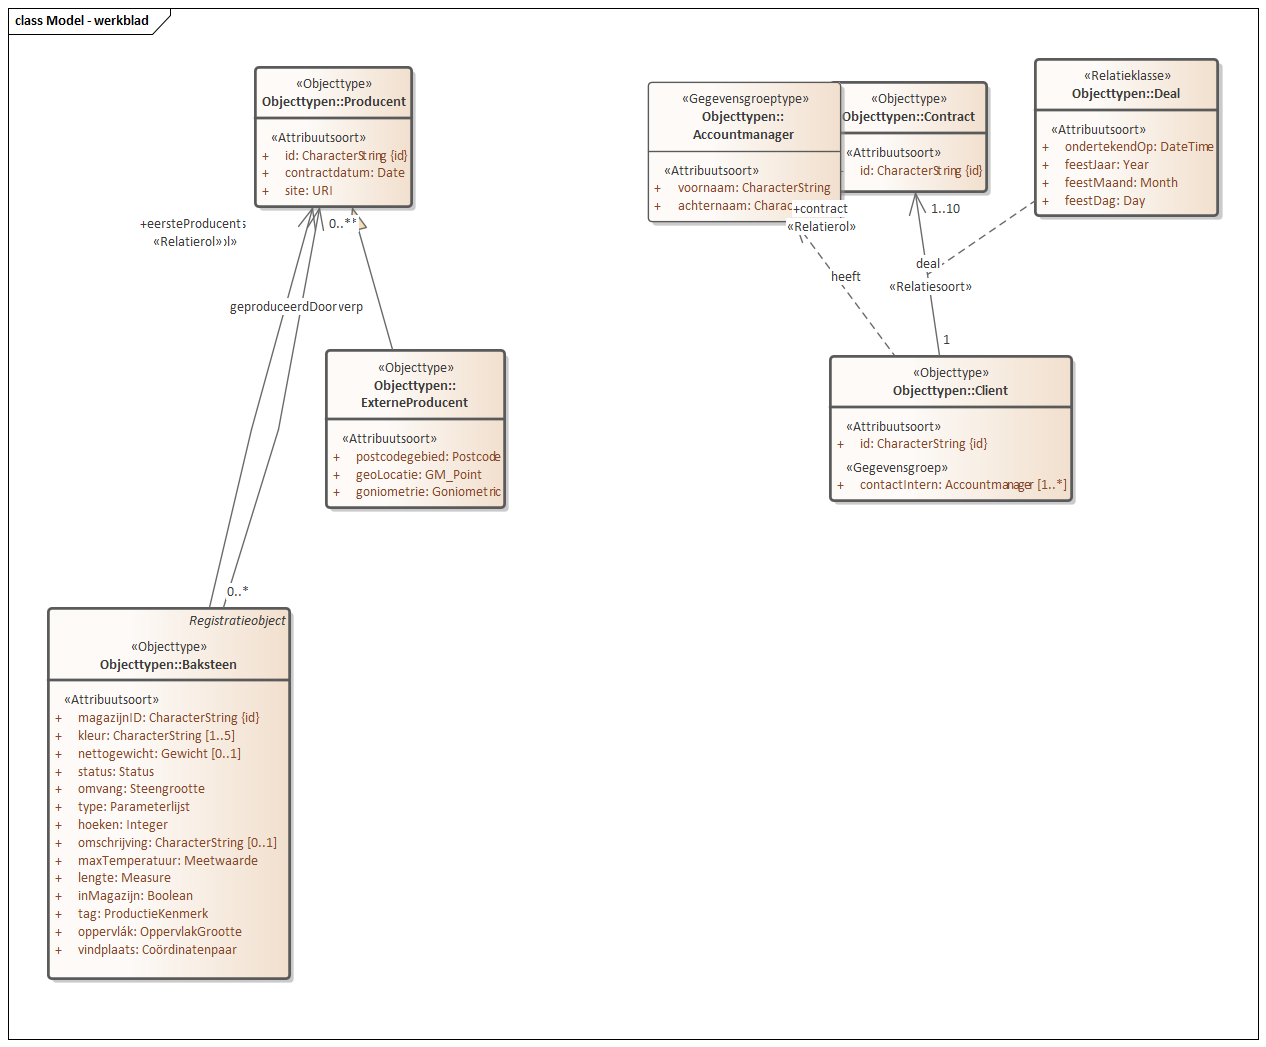
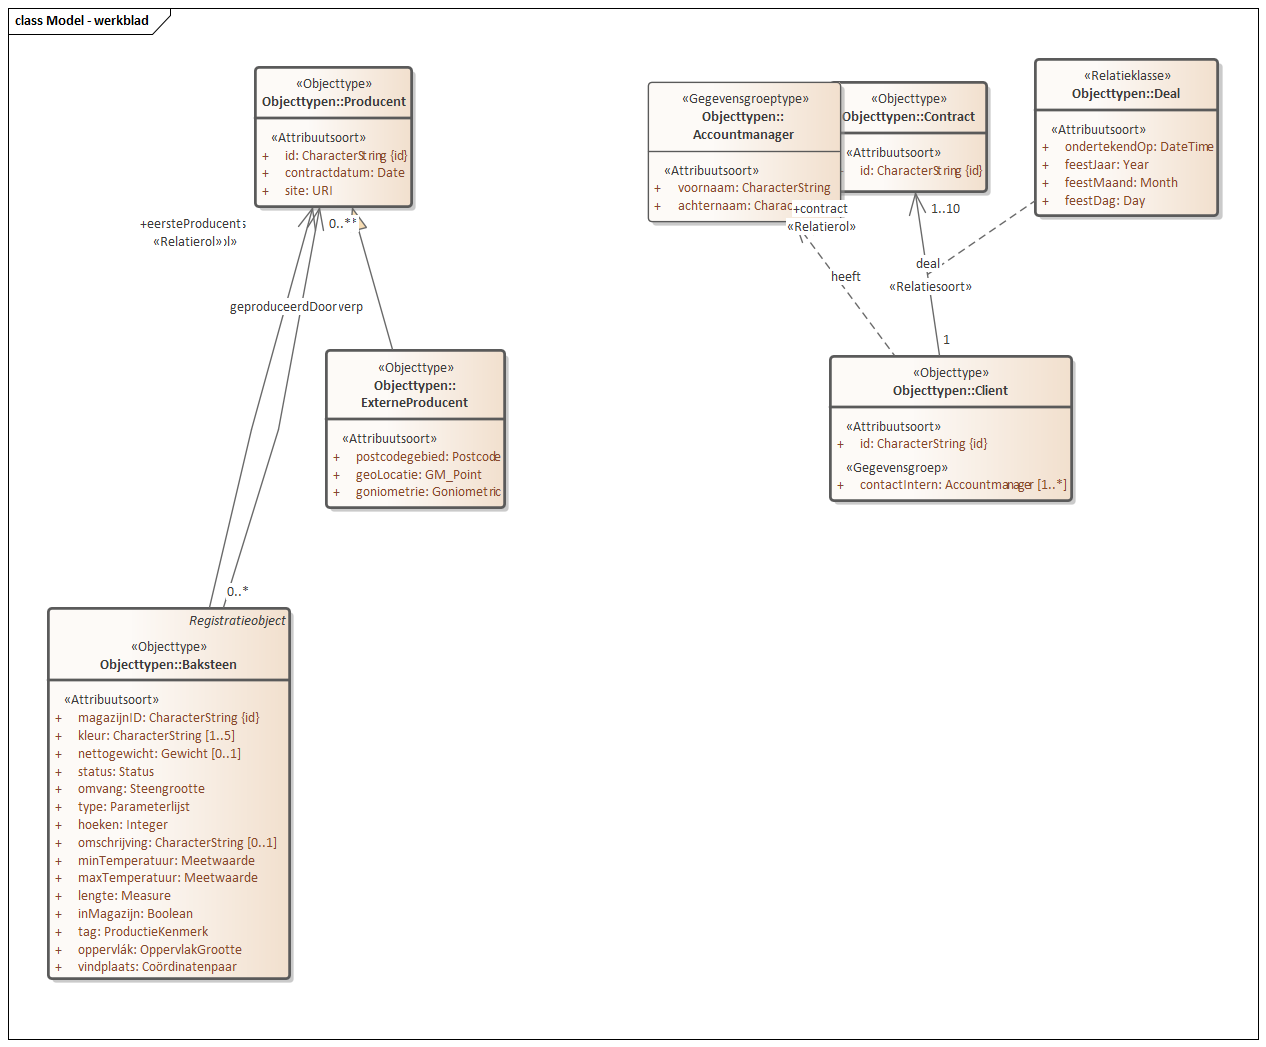
Conceptualmodel-SampleBaseSAMPLE-1.0.0-2-20130318-20200602-133359

Changed region(s): [[0.0616, 0.7947, 0.2156, 0.9475]]

diff --git a/data/SAMPLE-cat.msword.html b/data/SAMPLE-cat.msword.html
@@ -13,7 +13,7 @@
    <body>
       <p>Conceptual model/SampleBase (SAMPLE)/20130318</p>
       <p>Imvertor: 1.59.5</p>
-      <p>Model release: Conceptualmodel-SampleBaseSAMPLE-1.0.0-2-20130318-20200602-132714</p>
+      <p>Model release: Conceptualmodel-SampleBaseSAMPLE-1.0.0-2-20130318-20200602-133359</p>
       <hr>
       <section>
          <h1>Artikel 1 Definitie van registratieobject, entiteiten en attributen</h1>
@@ -54,17 +54,17 @@
             <h2>Het domeinmodel</h2>
             <section id="">
                <div class="imageinfo overview"><img src="Images/EAID_08513AA0_8A50_46c1_AD86_9B80D9A6AAE1.png" usemap="#imagemap-EAID_08513AA0_8A50_46c1_AD86_9B80D9A6AAE1" alt="Diagram Overzicht van alle constructies in dit conceptuele model."><map name="imagemap-EAID_08513AA0_8A50_46c1_AD86_9B80D9A6AAE1">
-                     <area shape="rect" alt="ProductieKenmerk" coords="616,876,753,986" href="#graph_EAID_4D78F0AD_88ED_44ef_9A76_163426CD74D1">
-                     <area shape="rect" alt="Parameterlijst" coords="839,826,1035,1019" href="#graph_EAID_44AEBC38_4744_431f_B31C_D809E3AA7D52">
-                     <area shape="rect" alt="Registratieobject" coords="48,167,322,289" href="#graph_EAID_9E9289AB_19E6_48af_87FD_8BC9E0875C28">
-                     <area shape="rect" alt="Steengrootte" coords="340,876,518,1019" href="#graph_EAID_65363897_E229_41fd_BE6F_E6B1BACAD458">
-                     <area shape="rect" alt="Accountmanager" coords="1140,668,1346,808" href="#graph_EAID_29D6B892_B943_494c_94C7_A13DB031E998">
-                     <area shape="rect" alt="Status" coords="77,878,262,1017" href="#graph_EAID_E86D21EE_58FD_4975_9CCB_AFF2434704A8">
-                     <area shape="rect" alt="ExterneProducent" coords="552,627,737,784" href="#graph_EAID_E2C93214_90E2_4151_B719_7BB8CDF8679F">
-                     <area shape="rect" alt="Baksteen" coords="86,386,315,721" href="#graph_EAID_CF7C4448_E50C_4c7a_B1D0_C4FCB2EB1814">
-                     <area shape="rect" alt="Producent" coords="538,367,723,565" href="#graph_EAID_04EED45C_4D30_41b9_83EE_65237E1F8E27">
-                     <area shape="rect" alt="Contract" coords="1402,541,1587,663" href="#graph_EAID_77987690_1141_457d_A33B_E1C7AA1EA812">
-                     <area shape="rect" alt="Client" coords="839,545,1082,709" href="#graph_EAID_DF955A82_3E49_4c9d_9C0C_74738600FE1B"></map><p><b>Domeinmodel</b> — Overzicht van alle constructies in dit conceptuele model.
+                     <area shape="rect" alt="ProductieKenmerk" coords="616,867,753,976" href="#graph_EAID_4D78F0AD_88ED_44ef_9A76_163426CD74D1">
+                     <area shape="rect" alt="Parameterlijst" coords="839,816,1035,1009" href="#graph_EAID_44AEBC38_4744_431f_B31C_D809E3AA7D52">
+                     <area shape="rect" alt="Registratieobject" coords="48,157,322,279" href="#graph_EAID_9E9289AB_19E6_48af_87FD_8BC9E0875C28">
+                     <area shape="rect" alt="Steengrootte" coords="340,867,518,1009" href="#graph_EAID_65363897_E229_41fd_BE6F_E6B1BACAD458">
+                     <area shape="rect" alt="Accountmanager" coords="1140,659,1346,798" href="#graph_EAID_29D6B892_B943_494c_94C7_A13DB031E998">
+                     <area shape="rect" alt="Status" coords="77,868,262,1008" href="#graph_EAID_E86D21EE_58FD_4975_9CCB_AFF2434704A8">
+                     <area shape="rect" alt="ExterneProducent" coords="552,617,737,775" href="#graph_EAID_E2C93214_90E2_4151_B719_7BB8CDF8679F">
+                     <area shape="rect" alt="Baksteen" coords="86,377,315,730" href="#graph_EAID_CF7C4448_E50C_4c7a_B1D0_C4FCB2EB1814">
+                     <area shape="rect" alt="Producent" coords="538,357,723,556" href="#graph_EAID_04EED45C_4D30_41b9_83EE_65237E1F8E27">
+                     <area shape="rect" alt="Contract" coords="1402,531,1587,653" href="#graph_EAID_77987690_1141_457d_A33B_E1C7AA1EA812">
+                     <area shape="rect" alt="Client" coords="839,535,1082,700" href="#graph_EAID_DF955A82_3E49_4c9d_9C0C_74738600FE1B"></map><p><b>Domeinmodel</b> — Overzicht van alle constructies in dit conceptuele model.
                   </p>
                </div>
             </section>
@@ -75,7 +75,7 @@
                   <h3>   Baksteen</h3>
                   <div class="imageinfo "><img src="Images/EAID_EB759E5B_3FAA_4064_A73E_704926072F89.png" usemap="#imagemap-EAID_EB759E5B_3FAA_4064_A73E_704926072F89" alt="Diagram "><map name="imagemap-EAID_EB759E5B_3FAA_4064_A73E_704926072F89">
                         <area shape="rect" alt="Producent" coords="164,59,322,199" href="#graph_EAID_04EED45C_4D30_41b9_83EE_65237E1F8E27">
-                        <area shape="rect" alt="Baksteen" coords="144,315,386,672" href="#graph_EAID_CF7C4448_E50C_4c7a_B1D0_C4FCB2EB1814"></map><p><b></b></p>
+                        <area shape="rect" alt="Baksteen" coords="144,315,386,690" href="#graph_EAID_CF7C4448_E50C_4c7a_B1D0_C4FCB2EB1814"></map><p><b></b></p>
                   </div>
                   <table style="width: 100%;">
                      <colgroup style="width: 30%;"></colgroup>
@@ -516,6 +516,46 @@
                            <tr>
                               <th>&nbsp;&nbsp;Naam</th>
                               <td>CHARACTERSTRING</td>
+                           </tr>
+                        </tbody>
+                     </table>
+                     
+                  </section><a class="anchor" id="detail_attribute_Model_Baksteen_minTemperatuur"></a><section id="detail_attribute_Model_Baksteen_minTemperatuur">
+                     <h4>  minTemperatuur</h4>
+                     
+                     <table style="width: 100%;">
+                        <colgroup style="width: 30%;"></colgroup>
+                        <colgroup style="width: 70%;"></colgroup>
+                        <tbody>
+                           <tr>
+                              <th>Type gegeven</th>
+                              <td>Attribuut van Baksteen</td>
+                           </tr>
+                           <tr>
+                              <th>Juridische status</th>
+                              <td>Authentiek</td>
+                           </tr>
+                           <tr>
+                              <th>Kardinaliteit</th>
+                              <td>1</td>
+                           </tr>
+                           <tr>
+                              <th>Domein</th>
+                              <td></td>
+                           </tr>
+                           <tr>
+                              <th>&nbsp;&nbsp;Naam</th>
+                              <td>Meetwaarde 
+                                 999
+                              </td>
+                           </tr>
+                           <tr>
+                              <th>&nbsp;&nbsp;Type</th>
+                              <td>Getal</td>
+                           </tr>
+                           <tr>
+                              <th>&nbsp;&nbsp;Waardebereik</th>
+                              <td>8 tot 200</td>
                            </tr>
                         </tbody>
                      </table>
